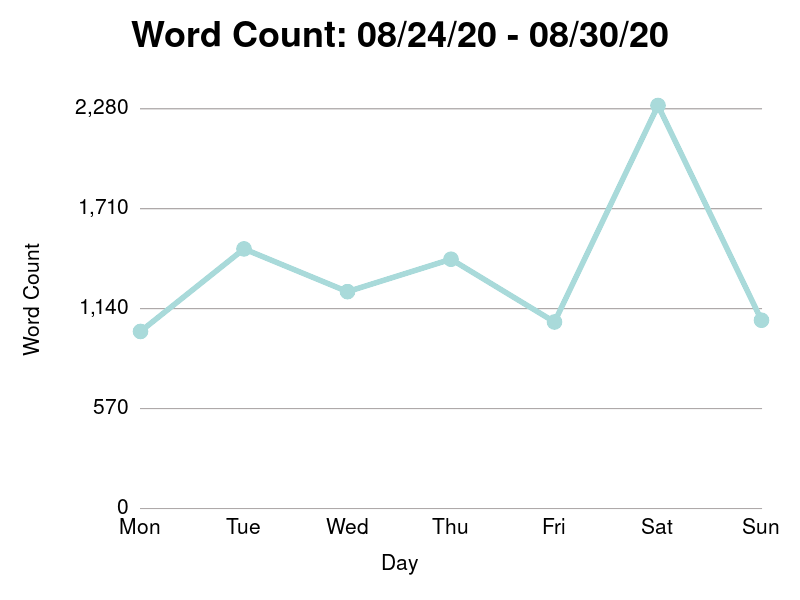
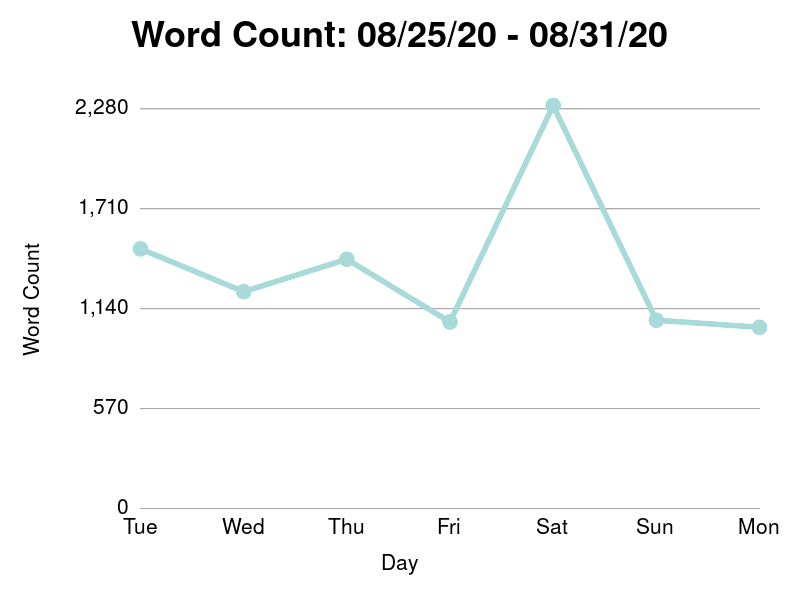
POST

diff --git a/entries/2020-08-31.md b/entries/2020-08-31.md
@@ -1,0 +1,144 @@
+---
+title: christmas lights, planning a new garden, and meeting the neighbors
+---
+
+Dear Journal,
+
+Good morning, everyone.  Happy Monday, from my tired brain to yours.
+Here's to my favorite weekday morning tradition - seeing how many cups
+of coffee I can have in my stomach before I have to talk to any human
+beings.
+
+It's a beautiful day today.  We've enjoyed a balmy high seventies with
+almost no humidity all weekend.  There's a big hunk of construction
+machinery drilling the pavement outside our house, and I know Rodney
+is going to have free entertainment all day.  The house is spotless,
+except for a single wet spot in the living room carpet that was
+formerly an anger poop, courtesy of Queen Ziggy.  I can't figure out
+why, but I know it was my fault.  And something in her eyes told me
+that if I had to ask why, then I wasn't ready to ask for her
+forgiveness.  Girls can be so complicated.
+
+_Sip_.  We had a wonderful Sunday.  After leftover pizza and church at
+the dining room table, we headed outside into the backyard for some
+chores.  There's something about the early fall that triggers our
+craving for outside work.  We even plan for it.  "Let's save that for
+when we inexplicably get excited about outside work this fall," we'll
+say.
+
+Marissa wanted to hang some Christmas lights in the backyard.  She
+secured my approval beforehand.  "They're technically Christmas
+lights, but they don't look very Christmas-y," she explained,
+tactfully omitting the detail that they were the dangly kind.  You
+know - the kind that look like little glowing icicles?
+
+"I know it's kind of silly," said Marissa.  "But it makes me happy.  I
+just want to do it.  Is it too... _college dorm_?"
+
+I put my arm around her shoulder patronizingly.  "It's _our_ college
+dorm," I replied.
+
+As Marissa finished up her summer holiday decorating, I took on the
+very glamorous task of disposing of the rest of our wilted summer
+garden.  Dead tomatoes, dead thyme, dead parsley - the black garbage
+bag of judgment doesn't care who you were in your earthly life.  When
+it arrives, it harvests us all the same.
+
+Marissa pleaded.  "Even the lemon tree?"
+
+"It's dead," I said coldly, flipping the pot upside down into the bag,
+crimping it with my foot.
+
+We have big plans for the garden next year.  As I took a break with
+some coffee and a cigar, Marissa showed me a rough sketch of the
+raised garden bed she wants to build next year.
+
+"So if you could pick _one_ plant to really invest in," she said.
+
+I interrupted.  "Pumpkins."
+
+Marissa lost her train of thought and began to laugh.  "Can you
+imagine?"
+
+"Let's just go all in on tomatoes," I suggested.  "They're pretty
+versatile, and they do really well here.  Could we also do lemons?"
+
+"The problem with a lemons is they need to come inside in the winter,"
+said Marissa.
+
+"Oh but I bet they just _thrive_ in California," I exclaimed.  "They
+have it so easy.  Too bad they don't grow here like walnuts." I kicked
+a walnut shell across the grass to emphasize my point.
+
+Our new neighbor and his daughter emerged from their house.  Marissa
+called Rodney over.
+
+"Hey dude, do you want to meet the new neighbors?" she asked.  Rodney
+dropped what he was doing and wandered over to the deck.  He wasn't
+subtle.
+
+"HEY NEIGHBOR!" he yelled, spinning in a circle.  "IT'S RODNEY.  WHERE
+ARE YOU!"
+
+The little girl called out to him.  "HELLO," she hollered.  They
+proceeded to have a friendly shouting match over our driveway.  Rodney
+began to pick up toys from around the yard and hold them up for her.
+She started listing off her favorite shows on Disney plus.  I can tell
+they're going to be best friends.
+
+"Dude, you guys can yell at each other any time you want," said
+Marissa, smiling.
+
+Lucas and I had a side conversation over by my garbage cans.  I asked
+him about what he was up to, and how they were settling in.  He leaned
+in, looking worried.
+
+"Were those gunshots I heard the other night?" he asked quietly.
+
+"That's what everyone is saying on Nextdoor," I said.  "But it's hard
+to tell sometimes, with all the drag racing going on."
+
+Lucas's heart sank.  "Drag racing?  Is that also a problem here?"
+
+I did my best to back peddle and alleviate his worries.  I tried to
+explain that this summer was kind of an outlier with all the civil
+unrest going on, and that we had much less gun violence last summer.
+I tried to explain that this area was getting quickly developed, and
+the city was starting to at least take the racing problem seriously.
+But I still felt guilty about breaking the news to him so crassly.
+There are few feelings worse than when your words, meant to comfort,
+just make somebody more worried.
+
+"Don't beat yourself up about it," said Marissa.  "Nobody likes to be
+the bearer of bad news.  And at that moment, he was probably just
+concerned about _what_ you were saying, and now _how_ you were saying
+it."
+
+Lucas turned to his daughter.  "OK, my lady", he said.  "I guess you
+need to put on some clothes or something."
+
+She looked up at Rodney.  "I'LL TALK TO YOU LATER RODNEY," she
+yelled.  "I HAVE TO GO PUT SOME CLOTHES ON!"
+
+"OK!" Rodney yelled back.  "GO PUT CLOTHES ON, NICE TO MEET YOU."
+
+As Lucas scooped her up, he broke out into song.  _Even when I close
+my eyes, even when I FALL ASLEEP I still miss you baaaabe_, the tune
+disappearing into the house.
+
+"Great - now that's going to be stuck in my head all day," said
+Marissa.
+
+I nodded.  "He's got pipes.  That _fall asleep_ is a hard note to hit,
+and - by God, he hit it."
+
+For dinner, I made hash.  Inspired by some leftover chorizo and random
+tupperware full of diced red onions and cilantro, it took on a
+Southwest flavor profile.
+
+"This is my favorite hash," said Marissa.
+
+"You just like it because it has cilantro and red onions," I laughed.
+She's easy to please.
+
+Thanks for stopping by today.  I hope you have a wonderful day today.
